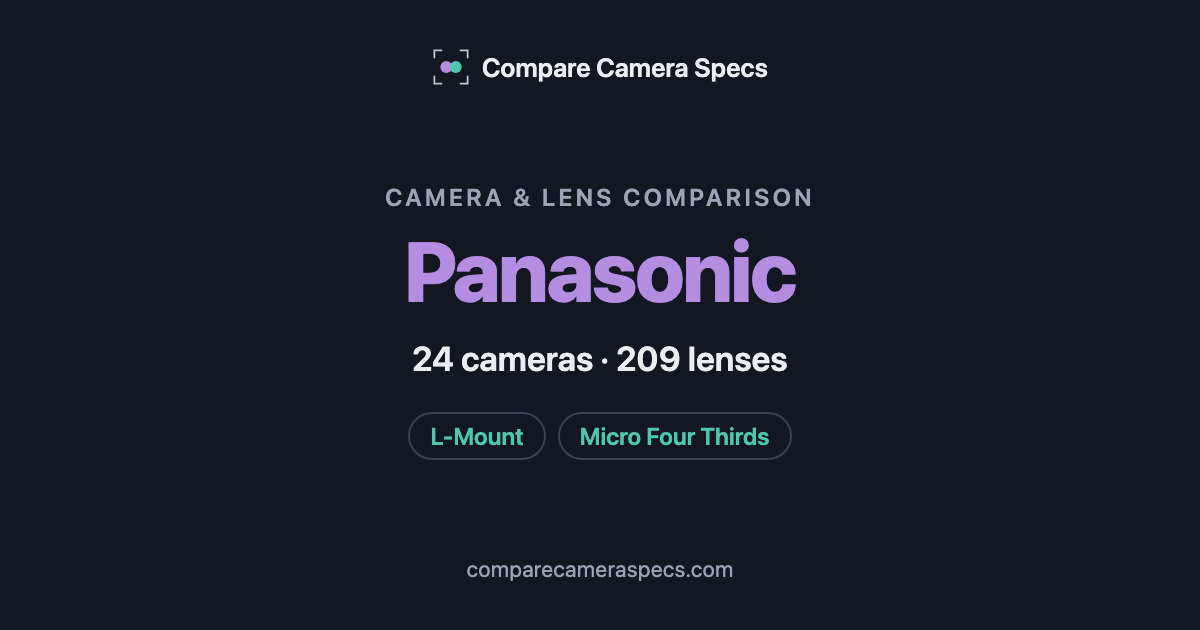
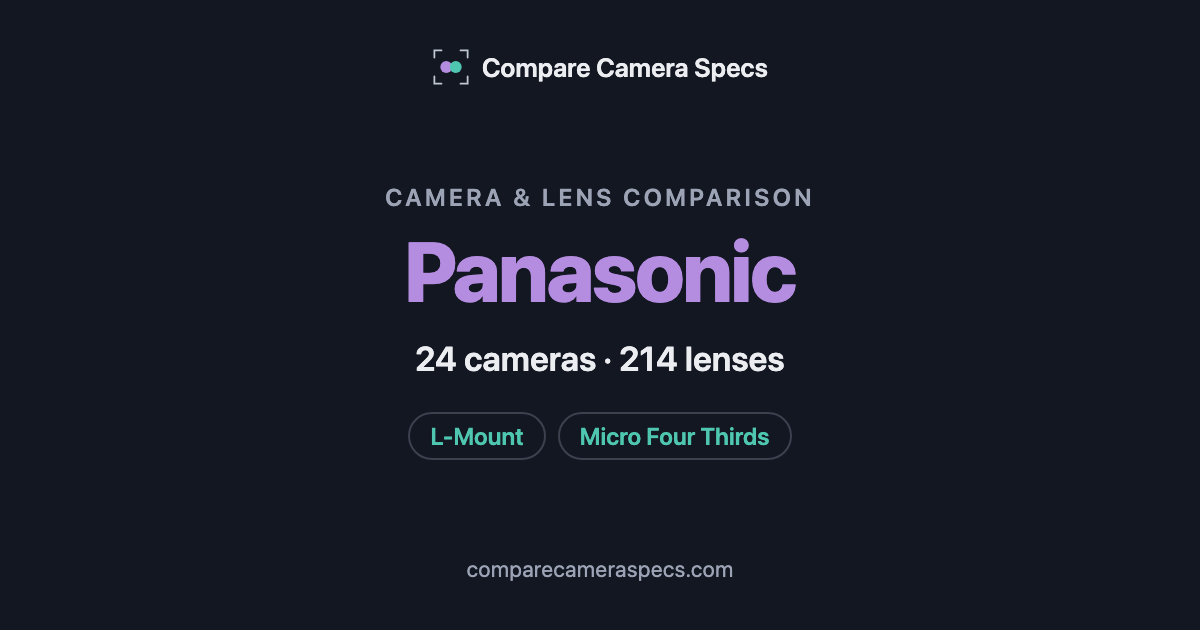
Panasonic + Olympus: add 5 Voigtländer MFT Noktons
Nokton 10.5/17.5/42.5/60 f/0.95 and Super Nokton 29 f/0.8 from Cosina's
EN pages; USD = B&H regular.

Claude-Session: https://claude.ai/code/session_01FYKXhtYCHKNL3CJLW6oPDG

Changed region(s): [[0.3392, 0.5429, 0.6475, 0.6032]]

diff --git a/panasonic/data.js b/panasonic/data.js
@@ -3783,6 +3783,92 @@ const LENSES = {
     priceIncomplete:true, productUrl:'https://www.venuslens.net/product/laowa-90mm-f-2-8-2x-macro-apo/',
   },
 
+  /* ── Voigtländer (MFT) — Panasonic/Leica missing-lens pass 2026-10-22 ── */
+  'voigtlander-nokton-10-5mm-f095': {
+    name:'Voigtländer Nokton 10.5mm f/0.95 Aspherical', manufacturer:'Voigtländer', line:'Nokton', type:'Prime',
+    mount:'mft', focalLength:10.5, focalLengthMin:null, focalLengthMax:null, focalLengthEquiv:'21mm',
+    maxAperture:0.95, minAperture:16, weight:585, length:82.4, diameter:77,
+    filterThread:72, minFocusDist:17, maxMagnification:0.12,
+    elements:13, groups:10, blades:10, afType:'Manual',
+    weatherSealed:false, ois:false, oisStops:null, year:2014, discontinued:false,
+    imageUrl:'https://www.cosina.co.jp/wp/wp-content/uploads/2021/09/MFT-105_095_01-scaled.jpg',
+    imageSource: { url:'https://www.cosina.co.jp/voigtlander/en/micro-four-thirds/nokton-10-5mm-f0-95-aspherical/', tier:'T1', title:'Cosina (Voigtländer manufacturer) official EN product page', note:'product shot (file MFT-105_095_01), lens alone; the page\'s first image (P00b) is a sample photo, not the lens', date:'2026-10-22' },
+    asin:null,
+    prices:{USD:949,AUD:null,EUR:null,GBP:null,JPY:null,CAD:null,SGD:null},
+    specSources: [{ url:'https://www.cosina.co.jp/voigtlander/en/micro-four-thirds/nokton-10-5mm-f0-95-aspherical/', tier:'T1', title:'Voigtländer Nokton 10.5mm f/0.95 Aspherical - Cosina official EN page (Micro Four Thirds)', note:'F0.95-F16, 13 elements in 10 groups, 10 blades, 0.17m, 1:8.2, φ77.0 x 82.4mm, φ72 filter, 585g, Selective Aperture Control System. Year: released September 2014 (Photography Life lens database)', date:'2026-10-22' }],
+    priceSource: { url:'https://www.bhphotovideo.com/c/product/1160237-REG/x.html', tier:'T3', title:'B&H Photo - Voigtländer Nokton 10.5mm f/0.95 Aspherical (MFT)', note:'B&H price $949 with no strikethrough; Voigtländer publishes no US price of its own; non-USD not examined', date:'2026-10-22' },
+    priceIncomplete:true,
+    productUrl:'https://www.cosina.co.jp/voigtlander/en/micro-four-thirds/nokton-10-5mm-f0-95-aspherical/',
+  },
+
+  'voigtlander-nokton-17-5mm-f095': {
+    name:'Voigtländer Nokton 17.5mm f/0.95 Aspherical', manufacturer:'Voigtländer', line:'Nokton', type:'Prime',
+    mount:'mft', focalLength:17.5, focalLengthMin:null, focalLengthMax:null, focalLengthEquiv:'35mm',
+    maxAperture:0.95, minAperture:16, weight:540, length:80, diameter:63.4,
+    filterThread:58, minFocusDist:15, maxMagnification:0.25,
+    elements:13, groups:9, blades:10, afType:'Manual',
+    weatherSealed:false, ois:false, oisStops:null, year:2013, discontinued:false,
+    imageUrl:'https://www.cosina.co.jp/wp/wp-content/uploads/2021/09/MFT-175_095_01-scaled.jpg',
+    imageSource: { url:'https://www.cosina.co.jp/voigtlander/en/micro-four-thirds/nokton-17-5mm-f0-95-aspherical/', tier:'T1', title:'Cosina (Voigtländer manufacturer) official EN product page', note:'product shot (file MFT-175_095_01), lens alone; the page\'s first image (P00b) is a sample photo, not the lens', date:'2026-10-22' },
+    asin:null,
+    prices:{USD:749,AUD:null,EUR:null,GBP:null,JPY:null,CAD:null,SGD:null},
+    specSources: [{ url:'https://www.cosina.co.jp/voigtlander/en/micro-four-thirds/nokton-17-5mm-f0-95-aspherical/', tier:'T1', title:'Voigtländer Nokton 17.5mm f/0.95 Aspherical - Cosina official EN page (Micro Four Thirds)', note:'F0.95-F16, 13 elements in 9 groups, 10 blades, 0.15m, 1:4.0, φ63.4 x 80.0mm, φ58 filter, 540g. Year: 2013 launch', date:'2026-10-22' }],
+    priceSource: { url:'https://www.bhphotovideo.com/c/product/855215-REG/x.html', tier:'T3', title:'B&H Photo - Voigtländer Nokton 17.5mm f/0.95 Aspherical (MFT)', note:'B&H price $749 with no strikethrough; Voigtländer publishes no US price of its own; non-USD not examined', date:'2026-10-22' },
+    priceIncomplete:true,
+    productUrl:'https://www.cosina.co.jp/voigtlander/en/micro-four-thirds/nokton-17-5mm-f0-95-aspherical/',
+  },
+
+  'voigtlander-nokton-42-5mm-f095': {
+    name:'Voigtländer Nokton 42.5mm f/0.95', manufacturer:'Voigtländer', line:'Nokton', type:'Prime',
+    mount:'mft', focalLength:42.5, focalLengthMin:null, focalLengthMax:null, focalLengthEquiv:'85mm',
+    maxAperture:0.95, minAperture:16, weight:571, length:74.6, diameter:64.3,
+    filterThread:58, minFocusDist:23, maxMagnification:0.25,
+    elements:11, groups:8, blades:10, afType:'Manual',
+    weatherSealed:false, ois:false, oisStops:null, year:2013, discontinued:false,
+    imageUrl:'https://www.cosina.co.jp/wp/wp-content/uploads/2021/09/MFT-425_095_01-scaled.jpg',
+    imageSource: { url:'https://www.cosina.co.jp/voigtlander/en/micro-four-thirds/nokton-42-5mm-f0-95/', tier:'T1', title:'Cosina (Voigtländer manufacturer) official EN product page', note:'product shot (file MFT-425_095_01), lens alone; the page\'s first image (P00b) is a sample photo, not the lens', date:'2026-10-22' },
+    asin:null,
+    prices:{USD:649,AUD:null,EUR:null,GBP:null,JPY:null,CAD:null,SGD:null},
+    specSources: [{ url:'https://www.cosina.co.jp/voigtlander/en/micro-four-thirds/nokton-42-5mm-f0-95/', tier:'T1', title:'Voigtländer Nokton 42.5mm f/0.95 - Cosina official EN page (Micro Four Thirds)', note:'F0.95-F16, 11 elements in 8 groups, 10 blades, 0.23m, 1:4.0, φ64.3 x 74.6mm, φ58 filter, 571g. Year: 2013 launch', date:'2026-10-22' }],
+    priceSource: { url:'https://www.bhphotovideo.com/c/product/1000625-REG/x.html', tier:'T3', title:'B&H Photo - Voigtländer Nokton 42.5mm f/0.95 (MFT)', note:'B&H price $649 with no strikethrough; Voigtländer publishes no US price of its own; non-USD not examined', date:'2026-10-22' },
+    priceIncomplete:true,
+    productUrl:'https://www.cosina.co.jp/voigtlander/en/micro-four-thirds/nokton-42-5mm-f0-95/',
+  },
+
+  'voigtlander-nokton-60mm-f095': {
+    name:'Voigtländer Nokton 60mm f/0.95', manufacturer:'Voigtländer', line:'Nokton', type:'Prime',
+    mount:'mft', focalLength:60, focalLengthMin:null, focalLengthMax:null, focalLengthEquiv:'120mm',
+    maxAperture:0.95, minAperture:16, weight:860, length:87.7, diameter:82.5,
+    filterThread:77, minFocusDist:34, maxMagnification:0.25,
+    elements:11, groups:8, blades:10, afType:'Manual',
+    weatherSealed:false, ois:false, oisStops:null, year:2020, discontinued:false,
+    imageUrl:'https://www.cosina.co.jp/wp/wp-content/uploads/2021/09/MFT-600_095_01-scaled.jpg',
+    imageSource: { url:'https://www.cosina.co.jp/voigtlander/en/micro-four-thirds/nokton-60mm-f0-95/', tier:'T1', title:'Cosina (Voigtländer manufacturer) official EN product page', note:'product shot (file MFT-600_095_01), lens alone; the page\'s first image (P00b) is a sample photo, not the lens', date:'2026-10-22' },
+    asin:null,
+    prices:{USD:699,AUD:null,EUR:null,GBP:null,JPY:null,CAD:null,SGD:null},
+    specSources: [{ url:'https://www.cosina.co.jp/voigtlander/en/micro-four-thirds/nokton-60mm-f0-95/', tier:'T1', title:'Voigtländer Nokton 60mm f/0.95 - Cosina official EN page (Micro Four Thirds)', note:'F0.95-F16, 11 elements in 8 groups, 10 blades, 0.34m, 1:4, φ82.5 x 87.7mm, 77mm filter, 860g. Year: announced February 2020 (ProVideo Coalition, 2020-02-20; Japan release April)', date:'2026-10-22' }],
+    priceSource: { url:'https://www.bhphotovideo.com/c/product/1561441-REG/x.html', tier:'T3', title:'B&H Photo - Voigtländer Nokton 60mm f/0.95 (MFT)', note:'B&H price $699 with no strikethrough; Voigtländer publishes no US price of its own; non-USD not examined', date:'2026-10-22' },
+    priceIncomplete:true,
+    productUrl:'https://www.cosina.co.jp/voigtlander/en/micro-four-thirds/nokton-60mm-f0-95/',
+  },
+
+  'voigtlander-super-nokton-29mm-f08': {
+    name:'Voigtländer Super Nokton 29mm f/0.8 Aspherical', manufacturer:'Voigtländer', line:'Super Nokton', type:'Prime',
+    mount:'mft', focalLength:29, focalLengthMin:null, focalLengthMax:null, focalLengthEquiv:'58mm',
+    maxAperture:0.8, minAperture:16, weight:703, length:88.9, diameter:72.3,
+    filterThread:62, minFocusDist:37, maxMagnification:0.1,
+    elements:11, groups:7, blades:12, afType:'Manual',
+    weatherSealed:false, ois:false, oisStops:null, year:2020, discontinued:false,
+    imageUrl:'https://www.cosina.co.jp/wp/wp-content/uploads/2021/09/MFT-290_080_01-scaled.jpg',
+    imageSource: { url:'https://www.cosina.co.jp/voigtlander/en/micro-four-thirds/super-nokton-29mm-f0-8-aspherical/', tier:'T1', title:'Cosina (Voigtländer manufacturer) official EN product page', note:'product shot (file MFT-290_080_01), lens alone; the page\'s first image (P00b) is a sample photo, not the lens', date:'2026-10-22' },
+    asin:null,
+    prices:{USD:1149,AUD:null,EUR:null,GBP:null,JPY:null,CAD:null,SGD:null},
+    specSources: [{ url:'https://www.cosina.co.jp/voigtlander/en/micro-four-thirds/super-nokton-29mm-f0-8-aspherical/', tier:'T1', title:'Voigtländer Super Nokton 29mm f/0.8 Aspherical - Cosina official EN page (Micro Four Thirds)', note:'F0.8-F16, 11 elements in 7 groups, 12 blades, 0.37m, 1:10, φ72.3 x 88.9mm, φ62 filter, 703g. Year: announced November 2020 (B&H pre-orders from 2020-11-22, $1,799 at launch)', date:'2026-10-22' }],
+    priceSource: { url:'https://www.bhphotovideo.com/c/product/1606638-REG/x.html', tier:'T3', title:'B&H Photo - Voigtländer Super Nokton 29mm f/0.8 Aspherical (MFT)', note:'B&H price $1,149 with no strikethrough; Voigtländer publishes no US price of its own; non-USD not examined', date:'2026-10-22' },
+    priceIncomplete:true,
+    productUrl:'https://www.cosina.co.jp/voigtlander/en/micro-four-thirds/super-nokton-29mm-f0-8-aspherical/',
+  },
+
   /* ── Laowa (MFT) — Panasonic/Leica missing-lens pass 2026-10-22 ── */
   'laowa-aksen-45mm-f28-mft': {
     name:'Laowa Aksen 45mm f/2.8 1-5X Ultra Macro APO', manufacturer:'Laowa', line:'Aksen', type:'Prime',
@@ -3991,7 +4077,7 @@ const LENS_DROPDOWN_GROUPS = [
   { label: '── OM System Zooms (MFT) ──', ids: ['omsystem-12-40mm-f28-pro', 'omsystem-40-150mm-f4-pro', 'omsystem-12-100mm-f4-pro', 'omsystem-100-400mm-f5-63-ii', 'omsystem-7-14mm-f28-pro', 'omsystem-8-25mm-f4-pro', 'omsystem-12-45mm-f4-pro', 'omsystem-40-150mm-f28-pro', 'omsystem-50-200mm-f28-is-pro', 'omsystem-150-400mm-f45-tc125x-is-pro', 'omsystem-14-42mm-f35-56-iii', 'omsystem-14-42mm-f35-56-ez', 'omsystem-9-18mm-f4-56-ii', 'omsystem-40-150mm-f4-56-r', 'omsystem-14-150mm-f4-56-ii', 'omsystem-75-300mm-f48-67-ii', 'omsystem-12-200mm-f35-63', 'omsystem-150-600mm-f5-63-is'] },
   { label: '── Sigma (MFT) ──', ids: ['sigma-16mm-f14-mft', 'sigma-30mm-f14-mft', 'sigma-56mm-f14-mft'] },
   { label: '── Laowa (MFT) ──', ids: ['laowa-7-5mm-f2-mft', 'laowa-90mm-f28-macro-mft', 'laowa-aksen-45mm-f28-mft', 'laowa-aksen-17-5mm-f17-mft', 'laowa-4-5-10mm-f28-fisheye-mft', 'laowa-4mm-f28-fisheye-mft', 'laowa-9mm-f28-mft', 'laowa-argus-25mm-f095-mft', 'laowa-argus-18mm-f095-mft', 'laowa-17mm-f18-mft', 'laowa-50mm-f28-2x-macro-mft', 'laowa-10mm-f2-mft', 'laowa-6mm-f2-mft'] },
-  { label: '── Voigtländer (MFT) ──', ids: ['voigtlander-nokton-25mm-f095'] },
+  { label: '── Voigtländer (MFT) ──', ids: ['voigtlander-nokton-10-5mm-f095', 'voigtlander-nokton-17-5mm-f095', 'voigtlander-nokton-25mm-f095', 'voigtlander-super-nokton-29mm-f08', 'voigtlander-nokton-42-5mm-f095', 'voigtlander-nokton-60mm-f095'] },
 ];
 
 return { BRAND_CONFIG, SERIES_COLORS, CAMERAS, CAMERA_ORDER,

diff --git a/olympus/data.js b/olympus/data.js
@@ -2187,6 +2187,92 @@ const LENSES = {
     priceIncomplete:true, productUrl:'https://www.cosina.co.jp/voigtlander/en/micro-four-thirds/nokton-25mm-f0-95-type-ii/',
   },
 
+  /* ── Voigtländer (MFT) — Panasonic/Leica missing-lens pass 2026-10-22 ── */
+  'voigtlander-nokton-10-5mm-f095': {
+    name:'Voigtländer Nokton 10.5mm f/0.95 Aspherical', manufacturer:'Voigtländer', line:'Nokton', type:'Prime',
+    mount:'mft', focalLength:10.5, focalLengthMin:null, focalLengthMax:null, focalLengthEquiv:'21mm',
+    maxAperture:0.95, minAperture:16, weight:585, length:82.4, diameter:77,
+    filterThread:72, minFocusDist:17, maxMagnification:0.12,
+    elements:13, groups:10, blades:10, afType:'Manual',
+    weatherSealed:false, ois:false, oisStops:null, year:2014, discontinued:false,
+    imageUrl:'https://www.cosina.co.jp/wp/wp-content/uploads/2021/09/MFT-105_095_01-scaled.jpg',
+    imageSource: { url:'https://www.cosina.co.jp/voigtlander/en/micro-four-thirds/nokton-10-5mm-f0-95-aspherical/', tier:'T1', title:'Cosina (Voigtländer manufacturer) official EN product page', note:'product shot (file MFT-105_095_01), lens alone; the page\'s first image (P00b) is a sample photo, not the lens', date:'2026-10-22' },
+    asin:null,
+    prices:{USD:949,AUD:null,EUR:null,GBP:null,JPY:null,CAD:null,SGD:null},
+    specSources: [{ url:'https://www.cosina.co.jp/voigtlander/en/micro-four-thirds/nokton-10-5mm-f0-95-aspherical/', tier:'T1', title:'Voigtländer Nokton 10.5mm f/0.95 Aspherical - Cosina official EN page (Micro Four Thirds)', note:'F0.95-F16, 13 elements in 10 groups, 10 blades, 0.17m, 1:8.2, φ77.0 x 82.4mm, φ72 filter, 585g, Selective Aperture Control System. Year: released September 2014 (Photography Life lens database)', date:'2026-10-22' }],
+    priceSource: { url:'https://www.bhphotovideo.com/c/product/1160237-REG/x.html', tier:'T3', title:'B&H Photo - Voigtländer Nokton 10.5mm f/0.95 Aspherical (MFT)', note:'B&H price $949 with no strikethrough; Voigtländer publishes no US price of its own; non-USD not examined', date:'2026-10-22' },
+    priceIncomplete:true,
+    productUrl:'https://www.cosina.co.jp/voigtlander/en/micro-four-thirds/nokton-10-5mm-f0-95-aspherical/',
+  },
+
+  'voigtlander-nokton-17-5mm-f095': {
+    name:'Voigtländer Nokton 17.5mm f/0.95 Aspherical', manufacturer:'Voigtländer', line:'Nokton', type:'Prime',
+    mount:'mft', focalLength:17.5, focalLengthMin:null, focalLengthMax:null, focalLengthEquiv:'35mm',
+    maxAperture:0.95, minAperture:16, weight:540, length:80, diameter:63.4,
+    filterThread:58, minFocusDist:15, maxMagnification:0.25,
+    elements:13, groups:9, blades:10, afType:'Manual',
+    weatherSealed:false, ois:false, oisStops:null, year:2013, discontinued:false,
+    imageUrl:'https://www.cosina.co.jp/wp/wp-content/uploads/2021/09/MFT-175_095_01-scaled.jpg',
+    imageSource: { url:'https://www.cosina.co.jp/voigtlander/en/micro-four-thirds/nokton-17-5mm-f0-95-aspherical/', tier:'T1', title:'Cosina (Voigtländer manufacturer) official EN product page', note:'product shot (file MFT-175_095_01), lens alone; the page\'s first image (P00b) is a sample photo, not the lens', date:'2026-10-22' },
+    asin:null,
+    prices:{USD:749,AUD:null,EUR:null,GBP:null,JPY:null,CAD:null,SGD:null},
+    specSources: [{ url:'https://www.cosina.co.jp/voigtlander/en/micro-four-thirds/nokton-17-5mm-f0-95-aspherical/', tier:'T1', title:'Voigtländer Nokton 17.5mm f/0.95 Aspherical - Cosina official EN page (Micro Four Thirds)', note:'F0.95-F16, 13 elements in 9 groups, 10 blades, 0.15m, 1:4.0, φ63.4 x 80.0mm, φ58 filter, 540g. Year: 2013 launch', date:'2026-10-22' }],
+    priceSource: { url:'https://www.bhphotovideo.com/c/product/855215-REG/x.html', tier:'T3', title:'B&H Photo - Voigtländer Nokton 17.5mm f/0.95 Aspherical (MFT)', note:'B&H price $749 with no strikethrough; Voigtländer publishes no US price of its own; non-USD not examined', date:'2026-10-22' },
+    priceIncomplete:true,
+    productUrl:'https://www.cosina.co.jp/voigtlander/en/micro-four-thirds/nokton-17-5mm-f0-95-aspherical/',
+  },
+
+  'voigtlander-nokton-42-5mm-f095': {
+    name:'Voigtländer Nokton 42.5mm f/0.95', manufacturer:'Voigtländer', line:'Nokton', type:'Prime',
+    mount:'mft', focalLength:42.5, focalLengthMin:null, focalLengthMax:null, focalLengthEquiv:'85mm',
+    maxAperture:0.95, minAperture:16, weight:571, length:74.6, diameter:64.3,
+    filterThread:58, minFocusDist:23, maxMagnification:0.25,
+    elements:11, groups:8, blades:10, afType:'Manual',
+    weatherSealed:false, ois:false, oisStops:null, year:2013, discontinued:false,
+    imageUrl:'https://www.cosina.co.jp/wp/wp-content/uploads/2021/09/MFT-425_095_01-scaled.jpg',
+    imageSource: { url:'https://www.cosina.co.jp/voigtlander/en/micro-four-thirds/nokton-42-5mm-f0-95/', tier:'T1', title:'Cosina (Voigtländer manufacturer) official EN product page', note:'product shot (file MFT-425_095_01), lens alone; the page\'s first image (P00b) is a sample photo, not the lens', date:'2026-10-22' },
+    asin:null,
+    prices:{USD:649,AUD:null,EUR:null,GBP:null,JPY:null,CAD:null,SGD:null},
+    specSources: [{ url:'https://www.cosina.co.jp/voigtlander/en/micro-four-thirds/nokton-42-5mm-f0-95/', tier:'T1', title:'Voigtländer Nokton 42.5mm f/0.95 - Cosina official EN page (Micro Four Thirds)', note:'F0.95-F16, 11 elements in 8 groups, 10 blades, 0.23m, 1:4.0, φ64.3 x 74.6mm, φ58 filter, 571g. Year: 2013 launch', date:'2026-10-22' }],
+    priceSource: { url:'https://www.bhphotovideo.com/c/product/1000625-REG/x.html', tier:'T3', title:'B&H Photo - Voigtländer Nokton 42.5mm f/0.95 (MFT)', note:'B&H price $649 with no strikethrough; Voigtländer publishes no US price of its own; non-USD not examined', date:'2026-10-22' },
+    priceIncomplete:true,
+    productUrl:'https://www.cosina.co.jp/voigtlander/en/micro-four-thirds/nokton-42-5mm-f0-95/',
+  },
+
+  'voigtlander-nokton-60mm-f095': {
+    name:'Voigtländer Nokton 60mm f/0.95', manufacturer:'Voigtländer', line:'Nokton', type:'Prime',
+    mount:'mft', focalLength:60, focalLengthMin:null, focalLengthMax:null, focalLengthEquiv:'120mm',
+    maxAperture:0.95, minAperture:16, weight:860, length:87.7, diameter:82.5,
+    filterThread:77, minFocusDist:34, maxMagnification:0.25,
+    elements:11, groups:8, blades:10, afType:'Manual',
+    weatherSealed:false, ois:false, oisStops:null, year:2020, discontinued:false,
+    imageUrl:'https://www.cosina.co.jp/wp/wp-content/uploads/2021/09/MFT-600_095_01-scaled.jpg',
+    imageSource: { url:'https://www.cosina.co.jp/voigtlander/en/micro-four-thirds/nokton-60mm-f0-95/', tier:'T1', title:'Cosina (Voigtländer manufacturer) official EN product page', note:'product shot (file MFT-600_095_01), lens alone; the page\'s first image (P00b) is a sample photo, not the lens', date:'2026-10-22' },
+    asin:null,
+    prices:{USD:699,AUD:null,EUR:null,GBP:null,JPY:null,CAD:null,SGD:null},
+    specSources: [{ url:'https://www.cosina.co.jp/voigtlander/en/micro-four-thirds/nokton-60mm-f0-95/', tier:'T1', title:'Voigtländer Nokton 60mm f/0.95 - Cosina official EN page (Micro Four Thirds)', note:'F0.95-F16, 11 elements in 8 groups, 10 blades, 0.34m, 1:4, φ82.5 x 87.7mm, 77mm filter, 860g. Year: announced February 2020 (ProVideo Coalition, 2020-02-20; Japan release April)', date:'2026-10-22' }],
+    priceSource: { url:'https://www.bhphotovideo.com/c/product/1561441-REG/x.html', tier:'T3', title:'B&H Photo - Voigtländer Nokton 60mm f/0.95 (MFT)', note:'B&H price $699 with no strikethrough; Voigtländer publishes no US price of its own; non-USD not examined', date:'2026-10-22' },
+    priceIncomplete:true,
+    productUrl:'https://www.cosina.co.jp/voigtlander/en/micro-four-thirds/nokton-60mm-f0-95/',
+  },
+
+  'voigtlander-super-nokton-29mm-f08': {
+    name:'Voigtländer Super Nokton 29mm f/0.8 Aspherical', manufacturer:'Voigtländer', line:'Super Nokton', type:'Prime',
+    mount:'mft', focalLength:29, focalLengthMin:null, focalLengthMax:null, focalLengthEquiv:'58mm',
+    maxAperture:0.8, minAperture:16, weight:703, length:88.9, diameter:72.3,
+    filterThread:62, minFocusDist:37, maxMagnification:0.1,
+    elements:11, groups:7, blades:12, afType:'Manual',
+    weatherSealed:false, ois:false, oisStops:null, year:2020, discontinued:false,
+    imageUrl:'https://www.cosina.co.jp/wp/wp-content/uploads/2021/09/MFT-290_080_01-scaled.jpg',
+    imageSource: { url:'https://www.cosina.co.jp/voigtlander/en/micro-four-thirds/super-nokton-29mm-f0-8-aspherical/', tier:'T1', title:'Cosina (Voigtländer manufacturer) official EN product page', note:'product shot (file MFT-290_080_01), lens alone; the page\'s first image (P00b) is a sample photo, not the lens', date:'2026-10-22' },
+    asin:null,
+    prices:{USD:1149,AUD:null,EUR:null,GBP:null,JPY:null,CAD:null,SGD:null},
+    specSources: [{ url:'https://www.cosina.co.jp/voigtlander/en/micro-four-thirds/super-nokton-29mm-f0-8-aspherical/', tier:'T1', title:'Voigtländer Super Nokton 29mm f/0.8 Aspherical - Cosina official EN page (Micro Four Thirds)', note:'F0.8-F16, 11 elements in 7 groups, 12 blades, 0.37m, 1:10, φ72.3 x 88.9mm, φ62 filter, 703g. Year: announced November 2020 (B&H pre-orders from 2020-11-22, $1,799 at launch)', date:'2026-10-22' }],
+    priceSource: { url:'https://www.bhphotovideo.com/c/product/1606638-REG/x.html', tier:'T3', title:'B&H Photo - Voigtländer Super Nokton 29mm f/0.8 Aspherical (MFT)', note:'B&H price $1,149 with no strikethrough; Voigtländer publishes no US price of its own; non-USD not examined', date:'2026-10-22' },
+    priceIncomplete:true,
+    productUrl:'https://www.cosina.co.jp/voigtlander/en/micro-four-thirds/super-nokton-29mm-f0-8-aspherical/',
+  },
+
   /* ── Laowa (MFT) — Panasonic/Leica missing-lens pass 2026-10-22 ── */
   'laowa-aksen-45mm-f28-mft': {
     name:'Laowa Aksen 45mm f/2.8 1-5X Ultra Macro APO', manufacturer:'Laowa', line:'Aksen', type:'Prime',
@@ -2383,7 +2469,7 @@ const LENS_DROPDOWN_GROUPS = [
   { label: '── LUMIX G Zooms (MFT) ──',      ids: ['lumix-g-7-14mm-f4', 'leica-dg-8-18mm-f2-8-4', 'leica-dg-10-25mm-f1-7', 'lumix-g-12-32mm-f3-5-5-6', 'leica-dg-12-60mm-f2-8-4', 'lumix-g-12-60mm-f3-5-5-6', 'lumix-g-12-35mm-f2-8-ii', 'lumix-g-x-pz-14-42mm-f3-5-5-6', 'leica-dg-25-50mm-f1-7', 'lumix-g-35-100mm-f2-8-ii', 'leica-dg-35-100mm-f2-8-power-ois', 'lumix-g-35-100mm-f4-5-6', 'leica-dg-50-200mm-f2-8-4', 'lumix-g-14-140mm-f3-5-5-6-ii', 'lumix-g-100-300mm-f4-5-6-ii', 'leica-dg-100-400mm-f4-6-3-ii'] },
   { label: '── Sigma (MFT) ──', ids: ['sigma-16mm-f14-mft', 'sigma-30mm-f14-mft', 'sigma-56mm-f14-mft'] },
   { label: '── Laowa (MFT) ──', ids: ['laowa-7-5mm-f2-mft', 'laowa-90mm-f28-macro-mft', 'laowa-aksen-45mm-f28-mft', 'laowa-aksen-17-5mm-f17-mft', 'laowa-4-5-10mm-f28-fisheye-mft', 'laowa-4mm-f28-fisheye-mft', 'laowa-9mm-f28-mft', 'laowa-argus-25mm-f095-mft', 'laowa-argus-18mm-f095-mft', 'laowa-17mm-f18-mft', 'laowa-50mm-f28-2x-macro-mft', 'laowa-10mm-f2-mft', 'laowa-6mm-f2-mft'] },
-  { label: '── Voigtländer (MFT) ──', ids: ['voigtlander-nokton-25mm-f095'] },
+  { label: '── Voigtländer (MFT) ──', ids: ['voigtlander-nokton-10-5mm-f095', 'voigtlander-nokton-17-5mm-f095', 'voigtlander-nokton-25mm-f095', 'voigtlander-super-nokton-29mm-f08', 'voigtlander-nokton-42-5mm-f095', 'voigtlander-nokton-60mm-f095'] },
 ];
 
 return { BRAND_CONFIG, SERIES_COLORS, CAMERAS, CAMERA_ORDER,

diff --git a/panasonic/index.html b/panasonic/index.html
@@ -5,17 +5,17 @@
   <meta name="viewport" content="width=device-width, initial-scale=1.0">
   <title>Panasonic Lumix Camera &amp; Lens Comparison</title>
   <!-- seo:begin (generated by scripts/generate-seo.js — do not edit by hand) -->
-  <meta name="description" content="Compare 24 Panasonic cameras and 209 lenses side by side — price, sensor, autofocus, stabilization and video, in 7 currencies.">
+  <meta name="description" content="Compare 24 Panasonic cameras and 214 lenses side by side — price, sensor, autofocus, stabilization and video, in 7 currencies.">
   <link rel="canonical" href="https://comparecameraspecs.com/panasonic/">
   <meta property="og:type" content="website">
   <meta property="og:site_name" content="Compare Camera Specs">
   <meta property="og:title" content="Panasonic Camera &amp; Lens Comparison">
-  <meta property="og:description" content="Compare 24 Panasonic cameras and 209 lenses side by side — price, sensor, autofocus, stabilization and video, in 7 currencies.">
+  <meta property="og:description" content="Compare 24 Panasonic cameras and 214 lenses side by side — price, sensor, autofocus, stabilization and video, in 7 currencies.">
   <meta property="og:url" content="https://comparecameraspecs.com/panasonic/">
   <meta property="og:image" content="https://comparecameraspecs.com/og/panasonic.png">
   <meta property="og:image:width" content="1200">
   <meta property="og:image:height" content="630">
-  <meta property="og:image:alt" content="Panasonic: compare 24 cameras and 209 lenses side by side">
+  <meta property="og:image:alt" content="Panasonic: compare 24 cameras and 214 lenses side by side">
   <meta name="twitter:card" content="summary_large_image">
   <meta name="twitter:image" content="https://comparecameraspecs.com/og/panasonic.png">
   <script>
@@ -63,7 +63,7 @@
   <!-- seo:body:begin (generated by scripts/generate-seo.js — do not edit by hand) -->
   <section class="seo-links" aria-label="Popular Panasonic comparisons">
     <h2>Popular Panasonic camera comparisons</h2>
-    <p>Compare all 24 Panasonic cameras and 209 lenses side by side — price, sensor, autofocus, stabilization and video, in seven currencies. Popular head-to-head comparisons:</p>
+    <p>Compare all 24 Panasonic cameras and 214 lenses side by side — price, sensor, autofocus, stabilization and video, in seven currencies. Popular head-to-head comparisons:</p>
     <ul>
       <li><a href="vs/s1r-ii-vs-s1r">Panasonic Lumix S1R II vs Lumix S1R</a></li>
       <li><a href="vs/s5-ii-vs-s5">Panasonic Lumix S5 II vs Lumix S5</a></li>

diff --git a/olympus/index.html b/olympus/index.html
@@ -5,17 +5,17 @@
   <meta name="viewport" content="width=device-width, initial-scale=1.0">
   <title>Olympus Camera &amp; Lens Comparison</title>
   <!-- seo:begin (generated by scripts/generate-seo.js — do not edit by hand) -->
-  <meta name="description" content="Compare 43 Olympus cameras and 79 lenses side by side — price, sensor, autofocus, stabilization and video, in 7 currencies.">
+  <meta name="description" content="Compare 43 Olympus cameras and 84 lenses side by side — price, sensor, autofocus, stabilization and video, in 7 currencies.">
   <link rel="canonical" href="https://comparecameraspecs.com/olympus/">
   <meta property="og:type" content="website">
   <meta property="og:site_name" content="Compare Camera Specs">
   <meta property="og:title" content="Olympus Camera &amp; Lens Comparison">
-  <meta property="og:description" content="Compare 43 Olympus cameras and 79 lenses side by side — price, sensor, autofocus, stabilization and video, in 7 currencies.">
+  <meta property="og:description" content="Compare 43 Olympus cameras and 84 lenses side by side — price, sensor, autofocus, stabilization and video, in 7 currencies.">
   <meta property="og:url" content="https://comparecameraspecs.com/olympus/">
   <meta property="og:image" content="https://comparecameraspecs.com/og/olympus.png">
   <meta property="og:image:width" content="1200">
   <meta property="og:image:height" content="630">
-  <meta property="og:image:alt" content="Olympus: compare 43 cameras and 79 lenses side by side">
+  <meta property="og:image:alt" content="Olympus: compare 43 cameras and 84 lenses side by side">
   <meta name="twitter:card" content="summary_large_image">
   <meta name="twitter:image" content="https://comparecameraspecs.com/og/olympus.png">
   <script>
@@ -63,7 +63,7 @@
   <!-- seo:body:begin (generated by scripts/generate-seo.js — do not edit by hand) -->
   <section class="seo-links" aria-label="Popular Olympus comparisons">
     <h2>Popular Olympus camera comparisons</h2>
-    <p>Compare all 43 Olympus cameras and 79 lenses side by side — price, sensor, autofocus, stabilization and video, in seven currencies. Popular head-to-head comparisons:</p>
+    <p>Compare all 43 Olympus cameras and 84 lenses side by side — price, sensor, autofocus, stabilization and video, in seven currencies. Popular head-to-head comparisons:</p>
     <ul>
       <li><a href="vs/om-1-ii-vs-om-1">Olympus OM-1 Mark II vs OM-1</a></li>
       <li><a href="vs/om-5-ii-vs-om-5">Olympus OM-5 Mark II vs OM-5</a></li>

diff --git a/index.html b/index.html
@@ -88,7 +88,7 @@
   <meta property="og:image" content="https://comparecameraspecs.com/og/home.png">
   <meta property="og:image:width" content="1200">
   <meta property="og:image:height" content="630">
-  <meta property="og:image:alt" content="Compare 231 cameras and 1227 lenses from 8 brands side by side">
+  <meta property="og:image:alt" content="Compare 231 cameras and 1237 lenses from 8 brands side by side">
   <meta name="twitter:card" content="summary_large_image">
   <meta name="twitter:image" content="https://comparecameraspecs.com/og/home.png">
   <script>
@@ -225,7 +225,7 @@
             <div class="brand-card-body">
               <div class="brand-name">Olympus</div>
               <div class="brand-mount">Micro Four Thirds</div>
-              <div class="brand-count">43 cameras · 79 lenses</div>
+              <div class="brand-count">43 cameras · 84 lenses</div>
               <div class="brand-go">Compare &rarr;</div>
             </div>
           </a>
@@ -236,7 +236,7 @@
             <div class="brand-card-body">
               <div class="brand-name">Panasonic</div>
               <div class="brand-mount">L-Mount / MFT</div>
-              <div class="brand-count">24 cameras · 209 lenses</div>
+              <div class="brand-count">24 cameras · 214 lenses</div>
               <div class="brand-go">Compare &rarr;</div>
             </div>
           </a>

diff --git a/about.html b/about.html
@@ -15,7 +15,7 @@
   <meta property="og:image" content="https://comparecameraspecs.com/og/home.png">
   <meta property="og:image:width" content="1200">
   <meta property="og:image:height" content="630">
-  <meta property="og:image:alt" content="Compare 231 cameras and 1227 lenses from 8 brands side by side">
+  <meta property="og:image:alt" content="Compare 231 cameras and 1237 lenses from 8 brands side by side">
   <meta name="twitter:card" content="summary_large_image">
   <meta name="twitter:image" content="https://comparecameraspecs.com/og/home.png">
   <script>

diff --git a/privacy.html b/privacy.html
@@ -15,7 +15,7 @@
   <meta property="og:image" content="https://comparecameraspecs.com/og/home.png">
   <meta property="og:image:width" content="1200">
   <meta property="og:image:height" content="630">
-  <meta property="og:image:alt" content="Compare 231 cameras and 1227 lenses from 8 brands side by side">
+  <meta property="og:image:alt" content="Compare 231 cameras and 1237 lenses from 8 brands side by side">
   <meta name="twitter:card" content="summary_large_image">
   <meta name="twitter:image" content="https://comparecameraspecs.com/og/home.png">
   <script>

diff --git a/tests/data/links-offline.test.js b/tests/data/links-offline.test.js
@@ -195,8 +195,8 @@ const KNOWN_SHARED_LINKS = new Map([
 // that entry's asin, so only the ones that had none add a gap — +4 Sigma L /
 // Leica SL copies, +1 Samyang L, +19 Laowa L, +6 TTArtisan L,
 // +11 7Artisans L, +2 Meike L, +2 SG-image L, +22 Laowa MFT (11 each in
-// panasonic and olympus).
-const ASIN_GAP_BASELINE = 395;
+// panasonic and olympus), +10 Voigtländer MFT (5 each).
+const ASIN_GAP_BASELINE = 405;
 
 const allItems = () => brandDirs().flatMap(brand => {
   const { data } = loadBrand(brand);

diff --git a/openspec/changes/add-panasonic-leica-missing-thirdparty-lenses/PROGRESS.md b/openspec/changes/add-panasonic-leica-missing-thirdparty-lenses/PROGRESS.md
@@ -1,6 +1,7 @@
 # Progress — Panasonic + Leica missing third-party lenses
 
-**Resume at:** 4.2 (Voigtländer MFT, mirrored into olympus/)
+**Resume at:** 4.3 (TTArtisan / 7Artisans / Meike / SG-image / Samyang MFT)
+**4.2 done 2026-10-22 (5 Voigtländer MFT lenses, panasonic/ + olympus/):** Nokton 10.5 / 17.5 / 42.5 / 60 f/0.95 and Super Nokton 29 f/0.8 from Cosina's EN MFT pages (Cosina's full MFT list is these + the 25mm Type II already entered); USD = B&H regular (no strikethrough). Note: B&H now lists the existing Nokton 25mm Type II at $749 with no strikethrough (data has $799 from a 2026-10-10 "regular $799, sale $749" reading) - recheck in the price pass.
 **4.1 done 2026-10-22 (11 Laowa MFT lenses, in both panasonic/ and olympus/):** Aksen 45 / 17.5, 4.5-10 CF fisheye, 4mm fisheye, 9mm Zero-D (Sony entries cloned, 2x equivalents; Laowa gives one size for all mounts, MFT listed); MFT-only designs Argus 25 MFT APO, Argus 18 MFT APO, 17 f/1.8 MFT, 50 2X macro, 10 f/2 Zero-D MFT, 6 f/2 Zero-D MFT from Laowa's spec tables + B&H MFT listings (min aperture from B&H). 6mm/10mm/Argus 18 are not on Laowa's US store: USD = B&H, specs/images from Laowa Australia. "Voigtländer & Laowa (MFT)" group split into Laowa / Voigtländer groups on both pages. 17mm f/1.8 image gapped (only on venuslens.net, which blocks hotlinks).
 **3.6 done 2026-10-22 (2 SG-image L lenses):** MF 24 f/6.3 pancake and MF 50 f/1.8 Shaped Aperture, cloned from the Sony entries (SG-image's spec card gives one figure for every mount, L listed); USD = L variant price (same as E). AF 35 f/2.2 skipped as on sony/ (spec card only in the rendered page). APS-C SG-image L lenses out of scope.
 **3.5 done 2026-10-22 (2 Meike L lenses):** AF 85 f/1.4 MIX II and AF 85 f/1.8 SE Mark II, from B&H's L-Mount listings (Meike's L listings have no spec text); USD = Meike store L listing price.
@@ -60,7 +61,8 @@ Makers' store catalogues (Shopify `products.json`, venuslens Woo Store API) and 
 | 3.4 7Artisans L | 15 | 11 | 4 | 4615223 |
 | 3.5 Meike L | 11 | 2 | 9 | ba30b66 |
 | 3.6 SG-image L | 3 | 2 | 1 | 9699404 |
-| 4.1 Laowa MFT | 11 | 11 | 0 | (this commit) |
+| 4.1 Laowa MFT | 11 | 11 | 0 | 9cce5a1 |
+| 4.2 Voigtländer MFT | 5 | 5 | 0 | (this commit) |
 
 ## Skipped
 ### Laowa L (3.2)

diff --git a/openspec/changes/add-panasonic-leica-missing-thirdparty-lenses/tasks.md b/openspec/changes/add-panasonic-leica-missing-thirdparty-lenses/tasks.md
@@ -19,7 +19,7 @@
 ## 4. MFT makers (Panasonic + Olympus)
 
 - [x] 4.1 Laowa
-- [ ] 4.2 Voigtländer
+- [x] 4.2 Voigtländer
 - [ ] 4.3 TTArtisan / 7Artisans / Meike / SG-image / Samyang
 
 ## 5. Leica
